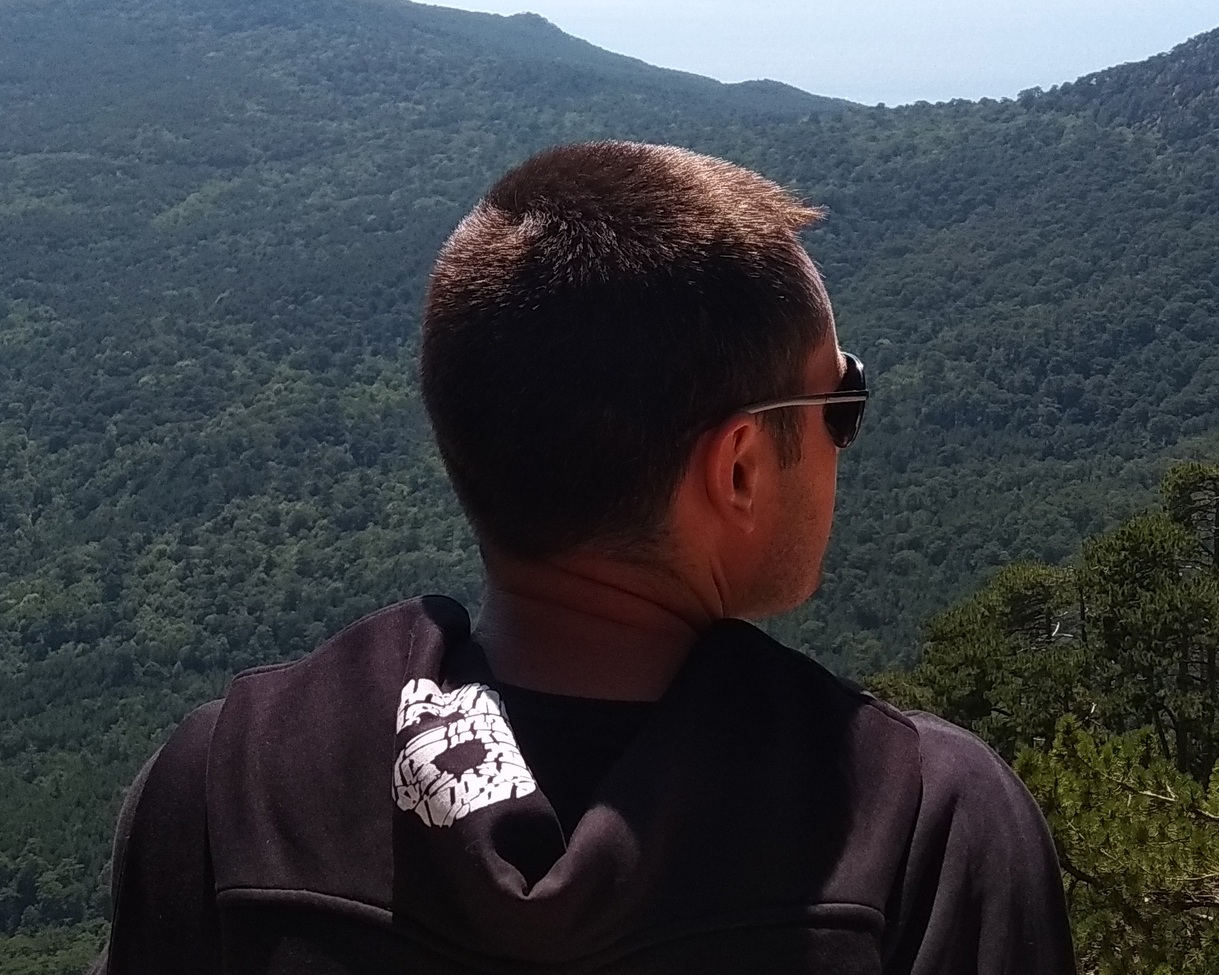
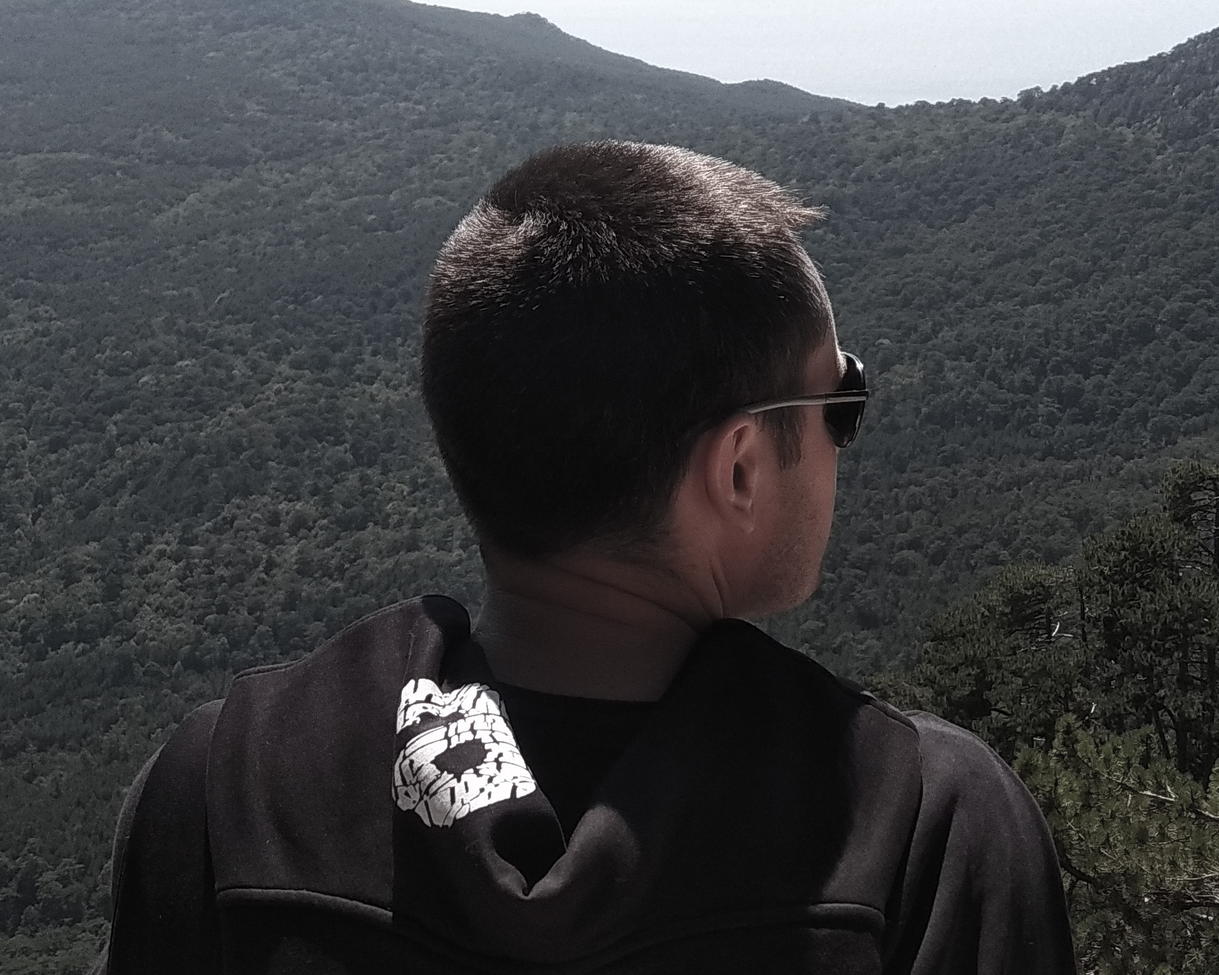
залил фото и хедер

diff --git a/css/style.css b/css/style.css
@@ -38,24 +38,132 @@ body {								/* вот это для закрепления футера вни
 
 .header_box{
   background-color:#353130;
-  height: 200px;
-  margin: auto;
+  height: 300px;
   margin-top: none;
   margin-bottom: none;
-  /*width: auto;*/
+  margin-left: none;
+  
+  width: auto;
   max-width: 1050px;
-  position: relative;				/* relative нужен чтоб отобразить меню внизу шапки */
+  position: relative;				
 }
 
 .img_in_header {
-  height: 80px;
-  width: 80px;
-  float: left;  
-  margin: none;
-  margin-top: none;
-  margin-bottom: none;
-  margin-right: 30px;  
+  /*background-color:#fc9176;*/
+  height: 205px;
+  width: auto;
+  float: left;
+  padding: none;   
+  border: 3px solid #e5e4e3;
+  border-radius: 2px;
+  margin-left: 25px;
+  margin-top: 70px;
+  margin-bottom: 25px;
+  margin-right: 15px;  
 }
+
+.img_in_text{
+  height: 40px;
+  width: 40px;
+  float: left;
+  margin-right: 10px;
+}
+
+.img_foto {
+  height: 200px;
+  width: auto;
+  margin: 0px;
+  float: right;
+}
+
+.header_center{
+  /*background-color:#fc9176;*/
+  margin-left: none;
+  margin-top: 70px;
+  margin-bottom: 25px;
+  margin-right: 350px; 
+  float: left;
+}
+
+.header_rihgt{
+  /*background-color:#fd582e;*/
+  margin-left: none;
+  margin-top: 70px;
+  margin-bottom: 25px;
+  margin-right: none; 
+  float: left;
+}
+
+
+
+.text_in_header_1 {
+  /*background-color:#aeffac;*/
+  color:#e8e7e7;
+	font-size: 30px;
+  text-align:left;    
+  margin-top: none;
+  margin-bottom: 10px;
+  padding: none;
+}
+
+.text_in_header_2 {  
+  color:#e8e7e7;
+	font-size: 30px;
+  text-align:left;    
+  margin-top: none;
+  margin-bottom: 30px;
+  padding: none;
+}
+
+.text_in_header_3 {  
+  color:#e8e7e7;
+	font-size: 20px;
+  text-align:left;   
+  margin-top: none;
+  margin-bottom: 10px;
+  padding: none;
+}
+
+.text_in_header_4 {  
+  color:#e8e7e7;
+	font-size: 20px;
+  text-align:left;   
+  margin-top: none;
+  margin-bottom: 10px;
+  padding: none;
+}
+
+.text_in_header_5 {  
+  color:#e8e7e7;
+	font-size: 20px;
+  text-align:right;   
+  float: right;
+  margin-top: none;
+  margin-bottom: 40px;
+  padding: none;
+  min-width: 250px;
+}
+
+.text_in_header_6 { 
+  color:#e8e7e7;
+	font-size: 20px;
+  text-align:right;   
+  margin-top: none;
+  margin-bottom: 40px;
+  padding: none;
+  min-width: 250px;
+}
+
+.text_in_header_7 {  
+  color:#e8e7e7;
+	font-size: 20px;
+  text-align:right;   
+  margin-top: none;
+  margin-bottom: 40px;
+  padding: none;
+  min-width: 250px;
+}
+
 
 
 .main{

diff --git a/index.html b/index.html
@@ -15,7 +15,60 @@
 
         <div class="header_box">
 
-        </div><!--закрывает header_box-->
+          <div class="img_in_header">
+            <img class="img_foto" src="Image/foto.jpg" alt="foto">          
+          </div>
+
+
+
+          <div class="header_center">
+
+            <div class="text_in_header_1">
+              <p>Сергей</p>
+            </div>
+            
+            <div class="text_in_header_2">
+              <p>Дубовик</p>
+            </div>
+  
+            <div class="text_in_header_3">
+              <p>Инженер</p>
+            </div>
+  
+            <div class="text_in_header_4">
+              <p>Электроник</p>
+            </div>
+
+          </div><!--закрывает header_center-->
+
+
+          <div class="header_rihgt">
+
+            <div class="text_in_header_5">
+              <img class="img_in_text" src="Image/icon_letter.png" alt="letter"> 
+              <p>mail@pufr.ru</p>
+            </div>
+            
+            <div class="text_in_header_6">
+              <img class="img_in_text" src="Image/icons_phonelink.png" alt="phonelink">
+              <p>+7 (902) 932 93 71</p>
+            </div>
+  
+            <div class="text_in_header_7">
+              <img class="img_in_text" src="Image/icons_inet.png" alt="inet">
+              <p>Pufr.ru</p>
+            </div>
+  
+
+          </div> <!--закрывает header_rihgt-->
+
+        </div> <!--закрывает header_box-->
+
+
+
+
+        
+
 
       </div> <!-- закрывает  header-->
 
